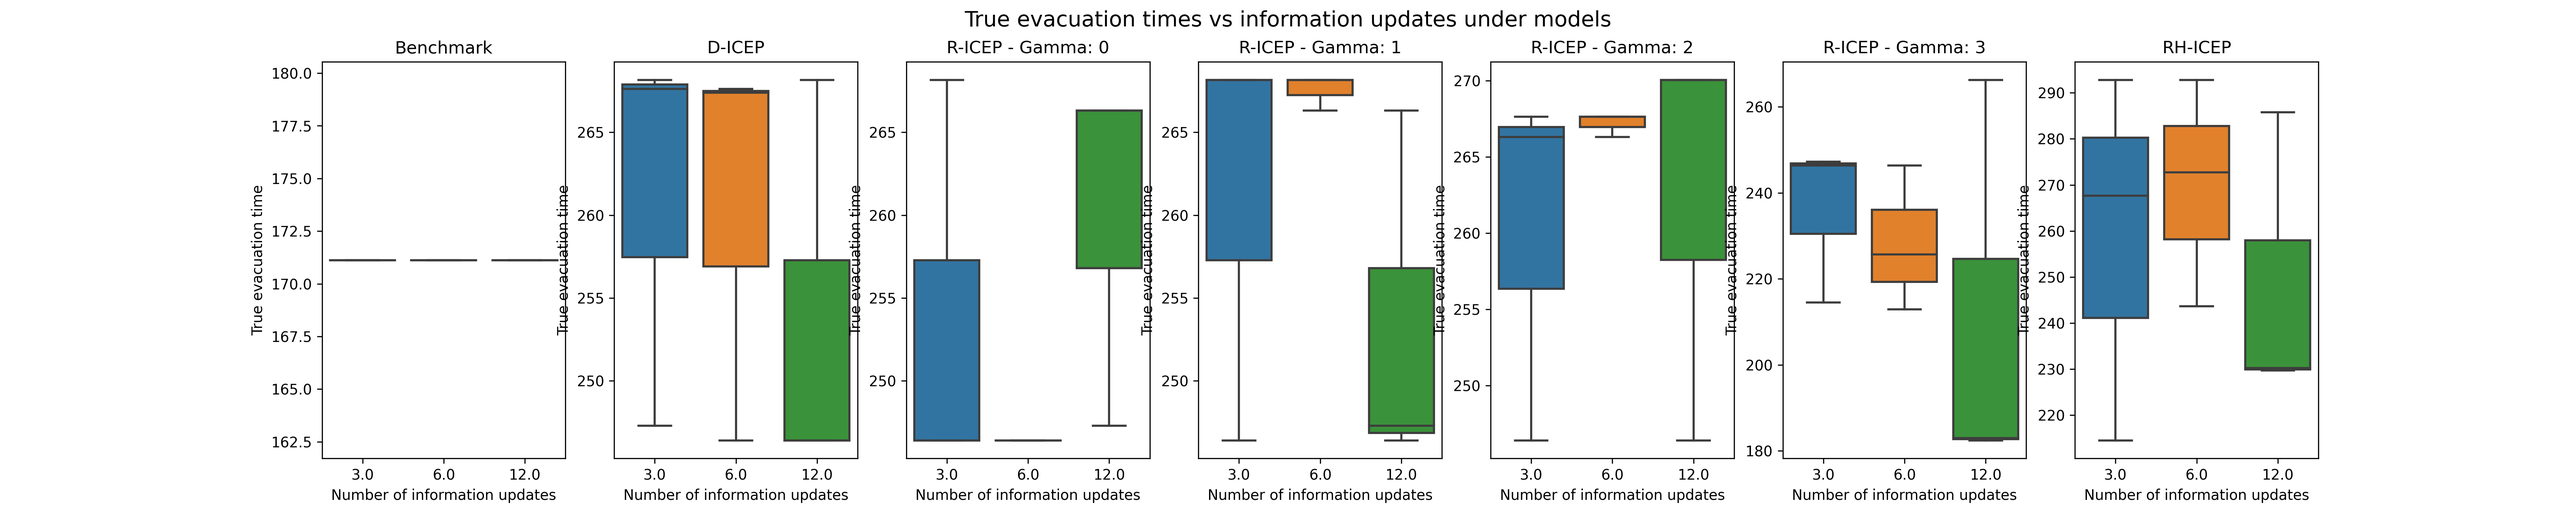
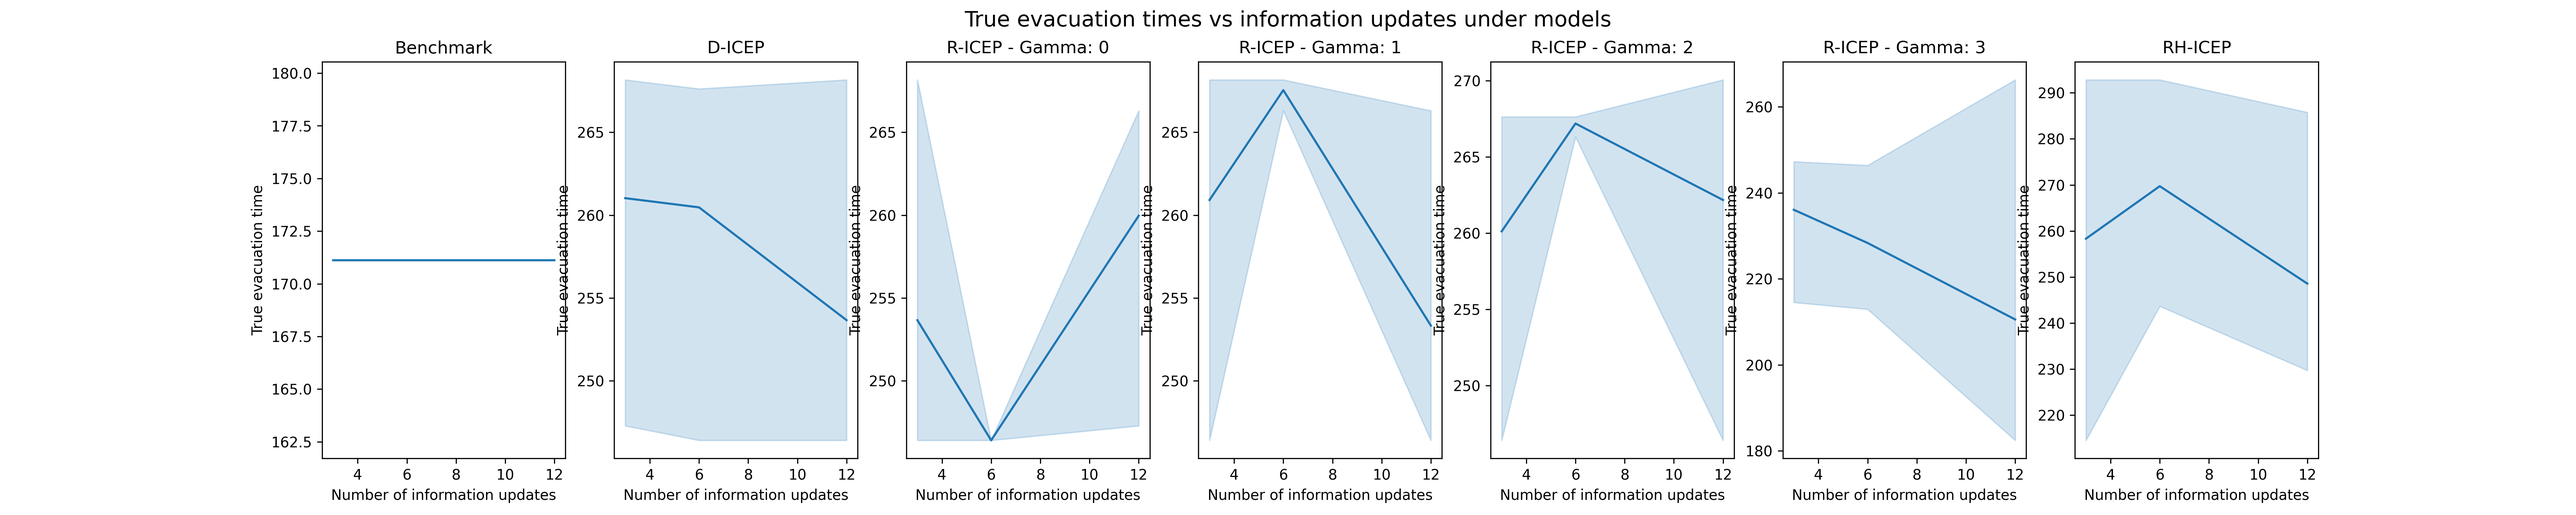
plot changes

diff --git a/visualizations.py b/visualizations.py
@@ -12,49 +12,49 @@ def comparison_plots_updates(df, data_path, seed, demand_ratio):
     df = df[(df['random_seed'] == seed) & (df['demand_capacity_ratio'] == demand_ratio)]
 
     # number of updates
-    g0 = sns.boxplot(x="number_updates", y="evac_time_true", data=df[df['model'] == 'D-ICEP BENCHMARK'], ax=axs[0])
+    g0 = sns.lineplot(x="number_updates", y="evac_time_true", data=df[df['model'] == 'D-ICEP BENCHMARK'], ax=axs[0])
     # g0.set(yticklabels=[])  # remove the tick labels
     g0.set(ylabel='True evacuation time')  # remove the axis label
     # g0.set(xticklabels=['low', 'high'])
     g0.set(xlabel='Number of information updates')
     g0.set(title='Benchmark')
 
-    g1 = sns.boxplot(x="number_updates", y="evac_time_true", data=df[df['model'] == 'D-ICEP'], ax=axs[1])
+    g1 = sns.lineplot(x="number_updates", y="evac_time_true", data=df[df['model'] == 'D-ICEP'], ax=axs[1])
     # g0.set(yticklabels=[])  # remove the tick labels
     g1.set(ylabel='True evacuation time')  # remove the axis label
     # g0.set(xticklabels=['low', 'high'])
     g1.set(xlabel='Number of information updates')
     g1.set(title='D-ICEP')
 
-    g2 = sns.boxplot(x="number_updates", y="evac_time_true", data=df[(df['model'] == 'R-ICEP') & (df['gamma_setting'] == 0)], ax=axs[2])
+    g2 = sns.lineplot(x="number_updates", y="evac_time_true", data=df[(df['model'] == 'R-ICEP') & (df['gamma_setting'] == 0)], ax=axs[2])
     # g0.set(yticklabels=[])  # remove the tick labels
     g2.set(ylabel='True evacuation time')  # remove the axis label
     # g0.set(xticklabels=['low', 'high'])
     g2.set(xlabel='Number of information updates')
     g2.set(title='R-ICEP - Gamma: 0')
 
-    g3 = sns.boxplot(x="number_updates", y="evac_time_true", data=df[(df['model'] == 'R-ICEP') & (df['gamma_setting'] == 1)], ax=axs[3])
+    g3 = sns.lineplot(x="number_updates", y="evac_time_true", data=df[(df['model'] == 'R-ICEP') & (df['gamma_setting'] == 1)], ax=axs[3])
     # g0.set(yticklabels=[])  # remove the tick labels
     g3.set(ylabel='True evacuation time')  # remove the axis label
     # g0.set(xticklabels=['low', 'high'])
     g3.set(xlabel='Number of information updates')
     g3.set(title='R-ICEP - Gamma: 1')
 
-    g4 = sns.boxplot(x="number_updates", y="evac_time_true", data=df[(df['model'] == 'R-ICEP') & (df['gamma_setting'] == 2)], ax=axs[4])
+    g4 = sns.lineplot(x="number_updates", y="evac_time_true", data=df[(df['model'] == 'R-ICEP') & (df['gamma_setting'] == 2)], ax=axs[4])
     # g0.set(yticklabels=[])  # remove the tick labels
     g4.set(ylabel='True evacuation time')  # remove the axis label
     # g0.set(xticklabels=['low', 'high'])
     g4.set(xlabel='Number of information updates')
     g4.set(title='R-ICEP - Gamma: 2')
 
-    g5 = sns.boxplot(x="number_updates", y="evac_time_true", data=df[(df['model'] == 'R-ICEP') & (df['gamma_setting'] == 3)], ax=axs[5])
+    g5 = sns.lineplot(x="number_updates", y="evac_time_true", data=df[(df['model'] == 'R-ICEP') & (df['gamma_setting'] == 3)], ax=axs[5])
     # g0.set(yticklabels=[])  # remove the tick labels
     g5.set(ylabel='True evacuation time')  # remove the axis label
     # g0.set(xticklabels=['low', 'high'])
     g5.set(xlabel='Number of information updates')
     g5.set(title='R-ICEP - Gamma: 3')
 
-    g6 = sns.boxplot(x="number_updates", y="evac_time_true", data=df[df['model'] == 'RH-ICEP'], ax=axs[6])
+    g6 = sns.lineplot(x="number_updates", y="evac_time_true", data=df[df['model'] == 'RH-ICEP'], ax=axs[6])
     # g0.set(yticklabels=[])  # remove the tick labels
     g6.set(ylabel='True evacuation time')  # remove the axis label
     # g0.set(xticklabels=['low', 'high'])
@@ -261,6 +261,40 @@ def comparison_plots_demand(df, data_path, seed, demand_ratio):
     plt.savefig(os.path.join(data_path.split('/')[0], 'figures/box_model_demand_capacity_ratio_' + str(seed) + '.png'), dpi=300, transparent=False)
     plt.close()
 
+def overview_plot(df, data_path):
+
+    fig, axs = plt.subplots(ncols=2, figsize = (20,5), gridspec_kw=dict(width_ratios=(12,12)))
+
+    df['model_type'] = df['model'] + ' ' + df['gamma_setting'].astype(str)
+    for i in range(len(df)):
+        if 'nan' in df['model_type'].iloc[i]:
+            df['model_type'].iloc[i] = df['model_type'].iloc[i][0:-4]
+
+    # print(np.unique(df['model_type']))
+
+    # number of updates
+    models = ["D-ICEP BENCHMARK", "D-ICEP", "RH-ICEP", "R-ICEP 0.0", "R-ICEP 1.0", "R-ICEP 2.0", "R-ICEP 3.0"]
+    g0 = sns.boxplot(x="model_type", y="evac_time_true", data=df, ax=axs[0], order = models)
+    # g0.set(yticklabels=[])  # remove the tick labels
+    g0.set(ylabel='True evacuation time')  # remove the axis label
+    # g0.set(xticklabels=['low', 'high'])
+    g0.set(xlabel='Model type')
+
+    # number of updates
+    g1 = sns.lineplot(x="model_type", y="evac_time_true", hue = "demand_capacity_ratio", style = "random_seed", data=df, ax=axs[1])
+    # g0.set(yticklabels=[])  # remove the tick labels
+    g1.set(ylabel='True evacuation time')  # remove the axis label
+    # g0.set(xticklabels=['low', 'high'])
+    g1.set(xlabel='Model type')
+
+    fig.set_facecolor("white")
+    fig.suptitle('True evacuation times for each model',
+                 ha='center',
+                 fontsize=15,
+                 fontweight=20)
+    plt.savefig(os.path.join(data_path.split('/')[0], 'figures/overview_plot.png'), dpi=300, transparent=False)
+    plt.close()
+
 def individual_box_plots(df, data_path):
 
     fig, axs = plt.subplots(ncols=5, figsize = (15,5), gridspec_kw=dict(width_ratios=(4,2,2,2,1)))
@@ -389,15 +423,17 @@ def main():
     # box plots
     individual_box_plots(df, data_path)
 
-    for seed in [123, 124, 125, 126, 127]:
+    overview_plot(df, data_path)
 
-        comparison_plots_updates(df, data_path, seed, 2)
+    # for seed in [123, 124, 125, 126, 127]:
+    #
+    #     comparison_plots_updates(df, data_path, seed, 2)
 
-        comparison_plots_interval(df, data_path, seed, 2)
-
-        comparison_plots_variance(df, data_path, seed, 2)
-
-        comparison_plots_demand(df, data_path, seed, 2)
+        # comparison_plots_interval(df, data_path, seed, 2)
+        #
+        # comparison_plots_variance(df, data_path, seed, 2)
+        #
+        # comparison_plots_demand(df, data_path, seed, 2)
 
     # line plots
     # line_plots(df, data_path)
